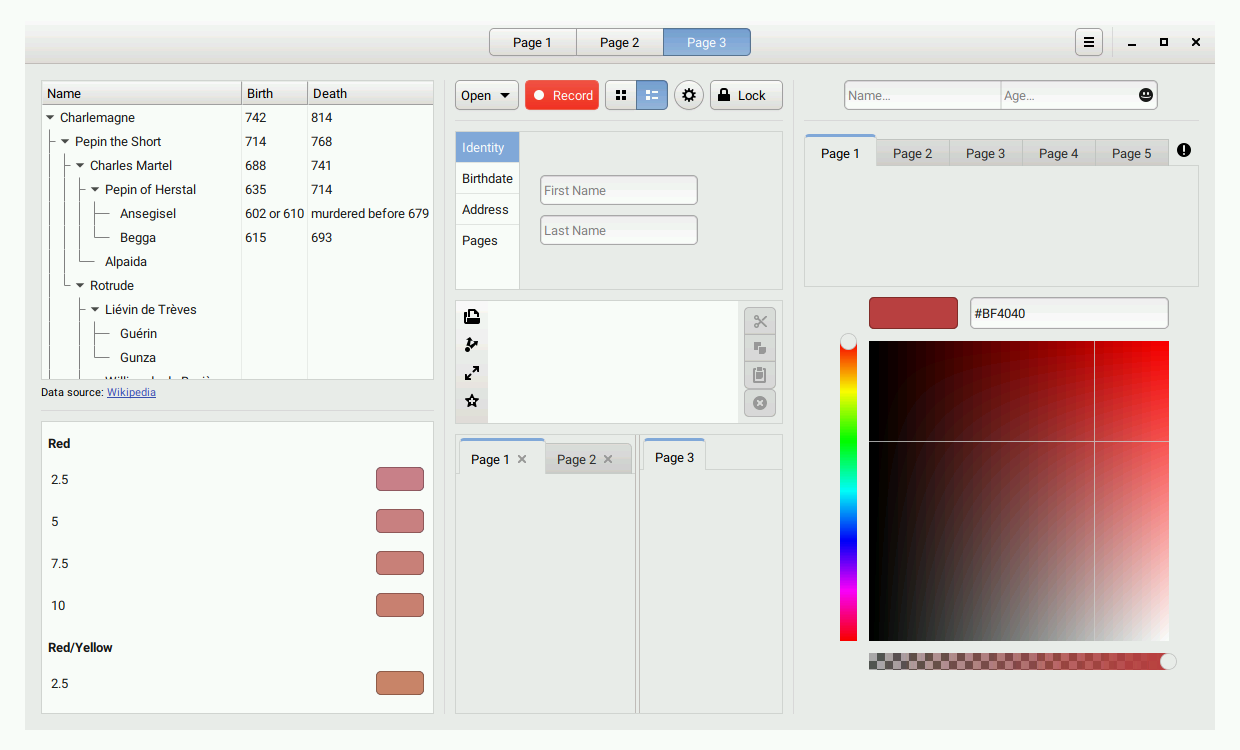
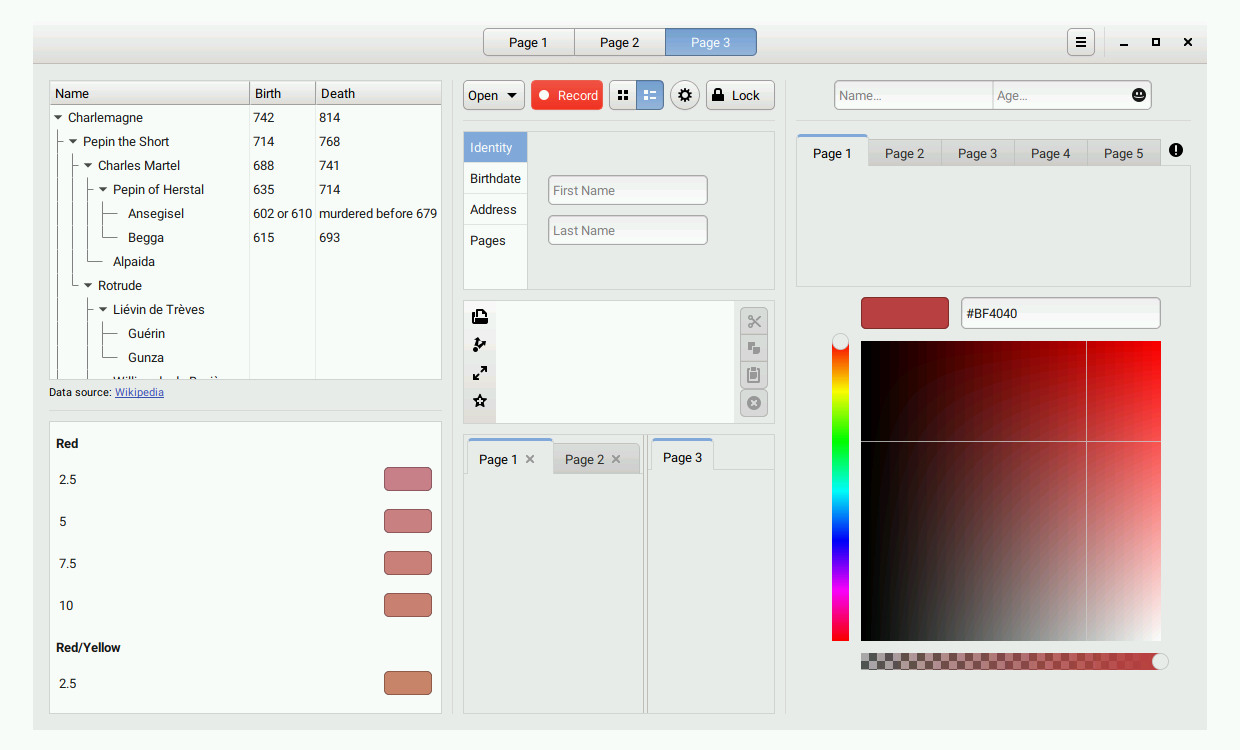
feat(gtk320: button, entry): unify left/right padding and make it depend on roundness to make text readable on the sides in case of too big border radius

diff --git a/src/gtk-3.20/scss/widgets/_button.scss b/src/gtk-3.20/scss/widgets/_button.scss
@@ -4,6 +4,7 @@
 
 $button_outline_radius: $roundness * (1 + ($button_outline_offset / 1px + 2) / 10);
 $button_border_width: 1px;
+$button_sidepadding: $spacing + ($roundness / 14px * if($spacing > 0, $spacing, 1px));
 
 @include exports("button_extends") {
     // stuff for .needs-attention
@@ -48,13 +49,18 @@ $button_border_width: 1px;
     %button {
         min-height: 14px + $spacing * 2;
         min-width: 14px + $spacing * 2;
-        padding: $spacing ($spacing * 2 - 1px);
+        //padding: $spacing ($spacing * 2 - 1px);
+        padding: $spacing;
         border-width: $button_border_width;
         border-style: solid;
         border-radius: $roundness;
         -gtk-outline-radius: $button_outline_radius;
         transition: 150ms ease;
         outline-color: transparent;
+
+        &.text-button {
+            padding: $spacing $button_sidepadding;
+        }
     }
 
     %undecorated_button {
@@ -434,6 +440,7 @@ $button_border_width: 1px;
 
         &:disabled { color: alpha($bg, .85); }
     }
+
 }
 
 @include exports("button") {
@@ -491,6 +498,9 @@ $button_border_width: 1px;
 
         button {
             color: $button_fg_color;
+            //padding: $spacing;
+            padding: $spacing ($spacing * 2 - 1px);
+            //padding: $spacing ($spacing * 2);
 
             &:active, &:checked, &:hover {
                 @include linear-gradient(shade($button_bg_color, 1.2));
@@ -664,19 +674,27 @@ $button_border_width: 1px;
         button.combo {
             // otherwise the arrow placement is not symmetric
             min-width: 0;
-            padding-left: $spacing * 2 - 1px;
-            padding-right: $spacing * 2 - 1px;
+            //padding-left: $spacing * 2 - 1px;
+            //padding-right: $spacing * 2 - 1px;
+            padding-left: $button_sidepadding;
+            padding-right: $button_sidepadding;
         }
 
         arrow {
             -gtk-icon-source: -gtk-icontheme("pan-down-symbolic");
             min-height: 10px + $spacing * 2;
             min-width: 10px + $spacing * 2;
+            padding: $spacing / 2;
         }
 
         box button, box entry {
             @extend %linked_button;
-            padding: $spacing ($spacing * 2 - 1px);
+            //padding: $spacing ($spacing * 2 - 1px);
+            padding: $spacing $button_sidepadding;
+        }
+
+        box > entry + button.combo {
+            padding: $spacing;
         }
 
         .linked:not(.vertical) > & > box > button.combo {

diff --git a/src/gtk-3.20/scss/widgets/_toolbar.scss b/src/gtk-3.20/scss/widgets/_toolbar.scss
@@ -42,11 +42,11 @@
 
     .linked > button { @include linked_button($bg, $fg); }
 
-    combobox, button {
-        padding: $spacing;
+    //combobox, button {
+        //padding: $spacing;
 
-        &.text-button { padding: $spacing; }
-    }
+        //&.text-button { padding: $spacing; }
+    //}
 
     box button.image-button {
         padding: $spacing $spacing + 4px;
@@ -173,7 +173,12 @@
         button {
             @include button($header_button_bg_color, $header_button_fg_color);
 
-            padding: $spacing if($spacing > 8px, $spacing, 8px);
+            $sidepadding: $spacing + ($roundness / 14px * if($spacing > 0, $spacing, 1px));
+            padding: $spacing;
+
+            &.text-button{
+                padding: $spacing if($sidepadding > 5px, $sidepadding, 5px);
+            }
 
             &.flat {
                 color: $menubar_fg_color;
@@ -183,9 +188,9 @@
                 color: $header_button_fg_color;
             }
 
-            &.image-button {
-                padding: $spacing;
-            }
+            //&.image-button {
+                //padding: $spacing;
+            //}
 
             &:backdrop {
                 color: $titlebar_fg_unfocused;

diff --git a/src/gtk-3.20/scss/widgets/_entry.scss b/src/gtk-3.20/scss/widgets/_entry.scss
@@ -154,7 +154,9 @@
     @include linear-gradient($bg, to top);
     @include border(mix($bg, $fg, .2));
 
-    padding: ($spacing + 2px) $spacing;
+    //padding: ($spacing + 2px) $spacing;
+    $sidepadding: $spacing + ($roundness / 14px * if($spacing > 0, $spacing, 1px));
+    padding: ($spacing + 2px) $sidepadding;
 
     color: $fg;
     caret-color: $primary_caret_color;
